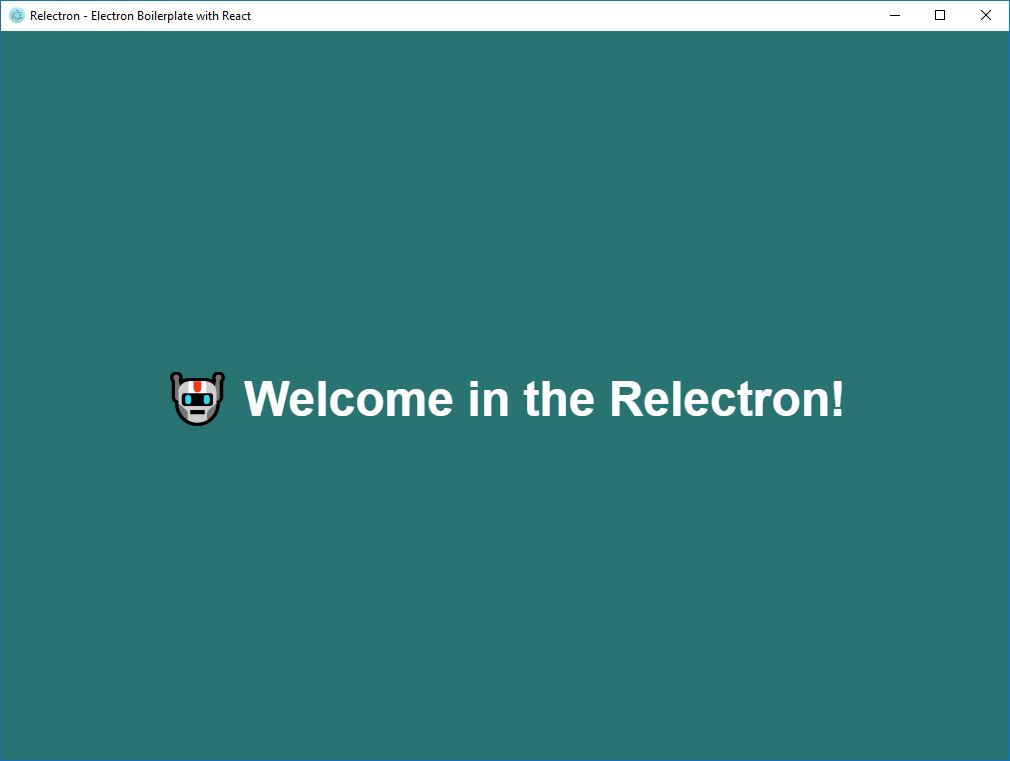
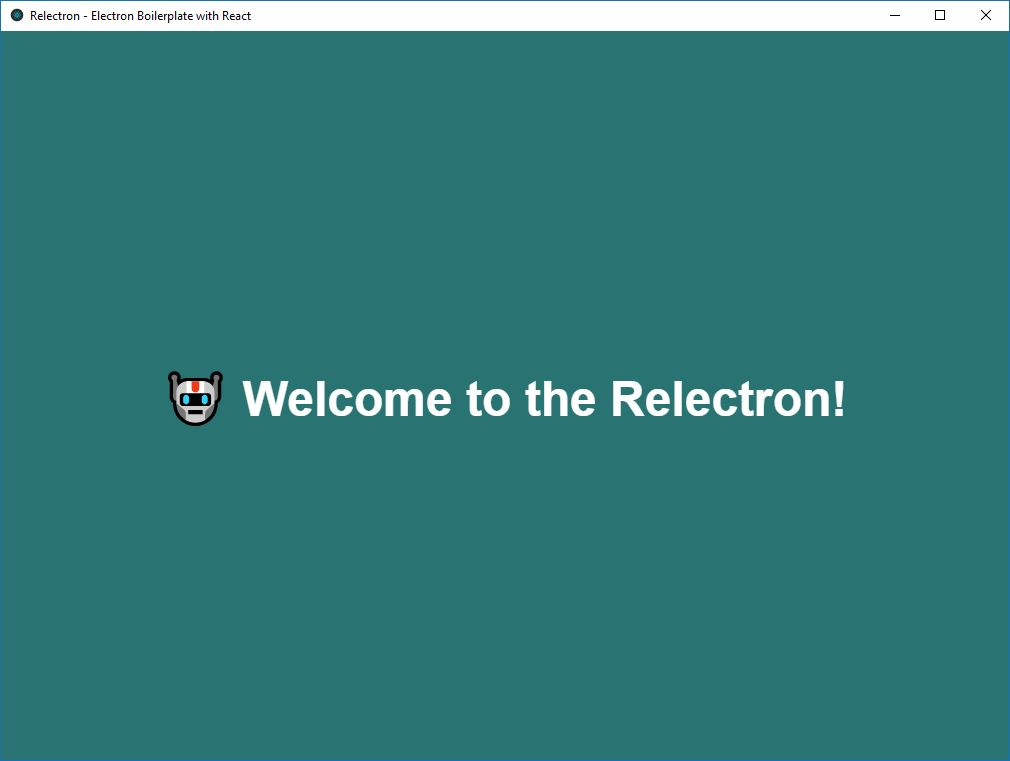
master | Grammar fix

Changed region(s): [[0.1535, 0.4836, 0.8287, 0.5742], [0.0, 0.0, 0.0307, 0.0302]]

diff --git a/src/components/Welcome/Welcome.js b/src/components/Welcome/Welcome.js
@@ -5,7 +5,7 @@ export default () => {
 
   return(
     <div className="welcome">
-      <h1>🤖 Welcome in the Relectron!</h1>
+      <h1>🤖 Welcome to the Relectron!</h1>
     </div>
   );
 
